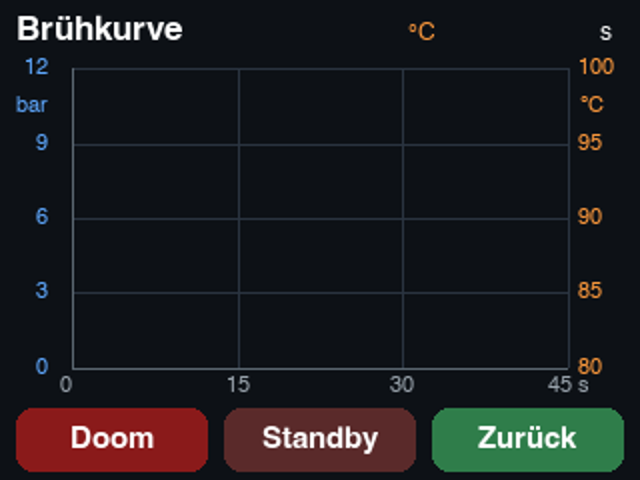
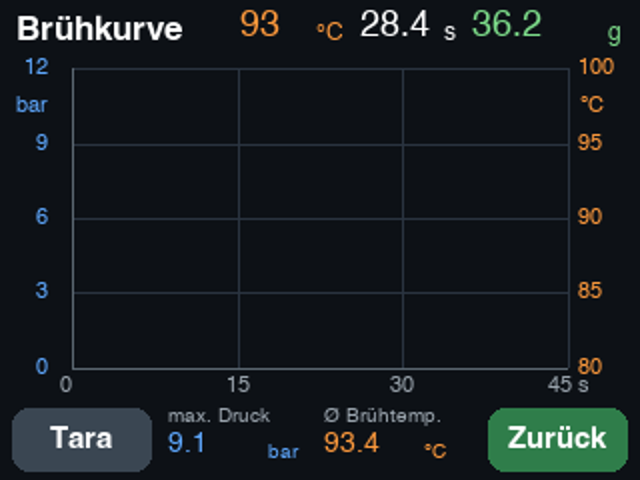
Bruehkurve: Gewicht, Hoechstdruck, mittlere Bruehtemperatur statt Doom/Standby
Claude-Session: https://claude.ai/code/session_01Pqi7LpBGgSeN5TvWHqb6AT

diff --git a/bridge/duo_bridge/eigene_seiten.h b/bridge/duo_bridge/eigene_seiten.h
@@ -12,6 +12,8 @@
 //   0x6110 Gewicht der Waage, g x 10      0x6111 Bezugszeit, s x 10
 //   0x6112 Bezuege seit Rueckspuelen      0x6113 Bezuege gesamt (bis 65535)
 //   0x6114 Uhrzeit hhmm                   0x6115 aktives Profil (1-20, 0 = keins)
+//   0x6116 Hoechstdruck, bar x 10         0x6117 mittlere Bruehtemperatur, °C x 10
+//   (beide vom laufenden bzw. letzten Bezug)
 // Werte des Mainboards (z. B. 0x0053 Kaffeekessel) zeigt das Display ohnehin.
 
 static const uint16_t ES_VP_AKTION = 0x6100, ES_VP_WERTE = 0x6110;
@@ -121,16 +123,18 @@ static void eigeneSeitenLoop() {
     struct tm t;
     bool zeit = jetztLokal(t);
     float g = bezugG;
-    uint16_t w[6] = {
+    uint16_t w[8] = {
         (uint16_t)(isnan(g) || g < 0 ? 0 : lroundf(g * 10)),
         (uint16_t)(bezugZustand == BZ_LAEUFT ? (millis() - bezugStartMs) / 100 : 0),
         (uint16_t)zaehler.seitRueckspuelen,
         (uint16_t)min<uint32_t>(bezuegeMaschine(), 65535),
         (uint16_t)(zeit ? t.tm_hour * 100 + t.tm_min : 0),
         (uint16_t)(profilAktiv >= 0 ? profilAktiv + 1 : 0),
+        (uint16_t)lroundf(shotDruckMax * 10),
+        (uint16_t)(shotTempN ? lroundf(shotTempSumme / shotTempN * 10) : 0),
     };
-    uint8_t f[6 + 12] = {KOPF0, KOPF1, 3 + 12, 0x82, ES_VP_WERTE >> 8, ES_VP_WERTE & 0xFF};
-    for (int i = 0; i < 6; i++) {
+    uint8_t f[6 + 16] = {KOPF0, KOPF1, 3 + 16, 0x82, ES_VP_WERTE >> 8, ES_VP_WERTE & 0xFF};
+    for (int i = 0; i < 8; i++) {
       f[6 + 2 * i] = w[i] >> 8;
       f[7 + 2 * i] = w[i];
     }
